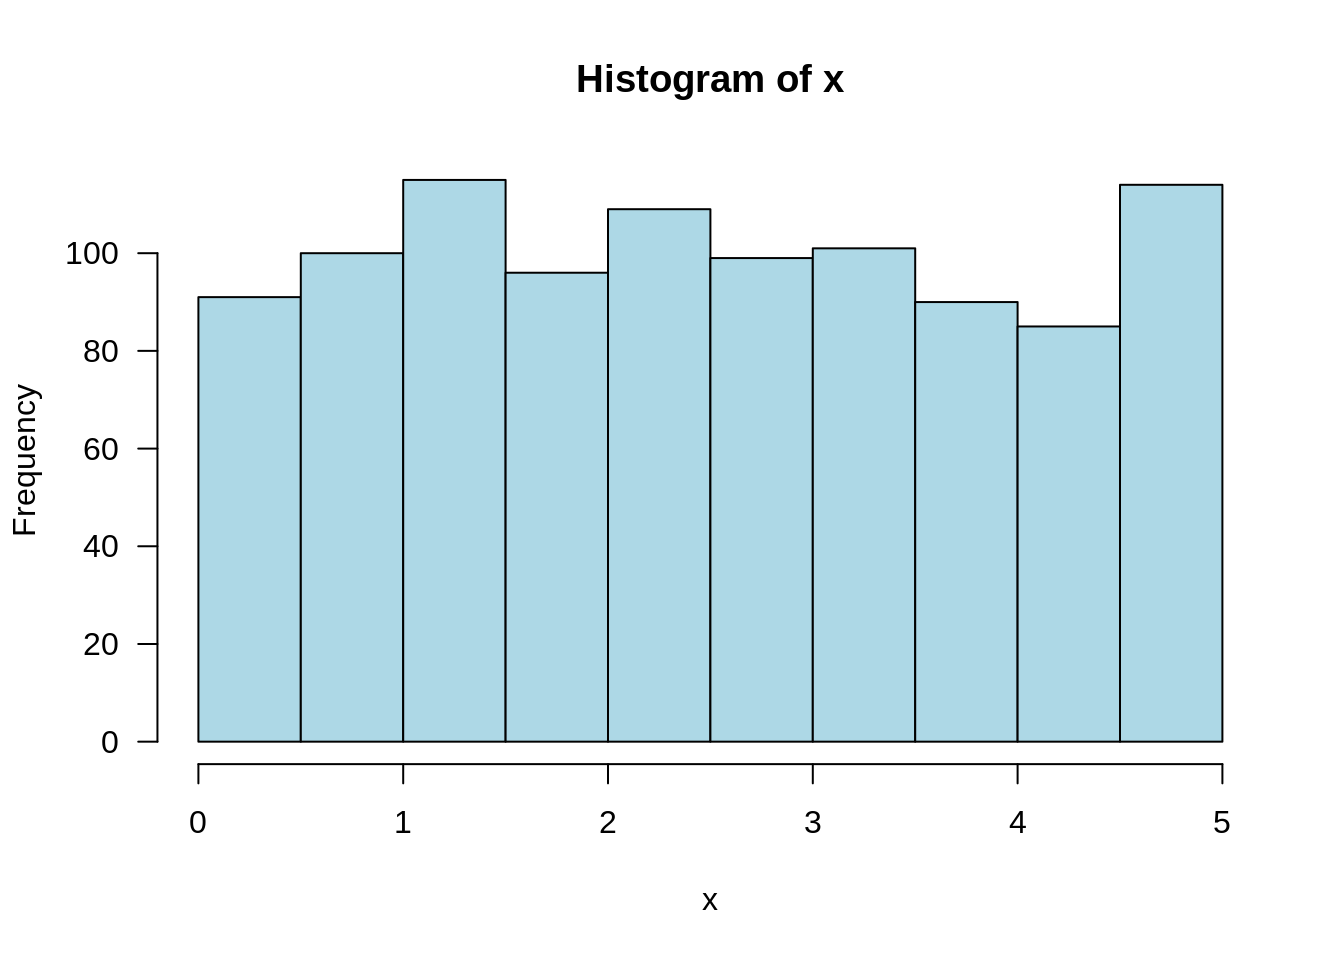
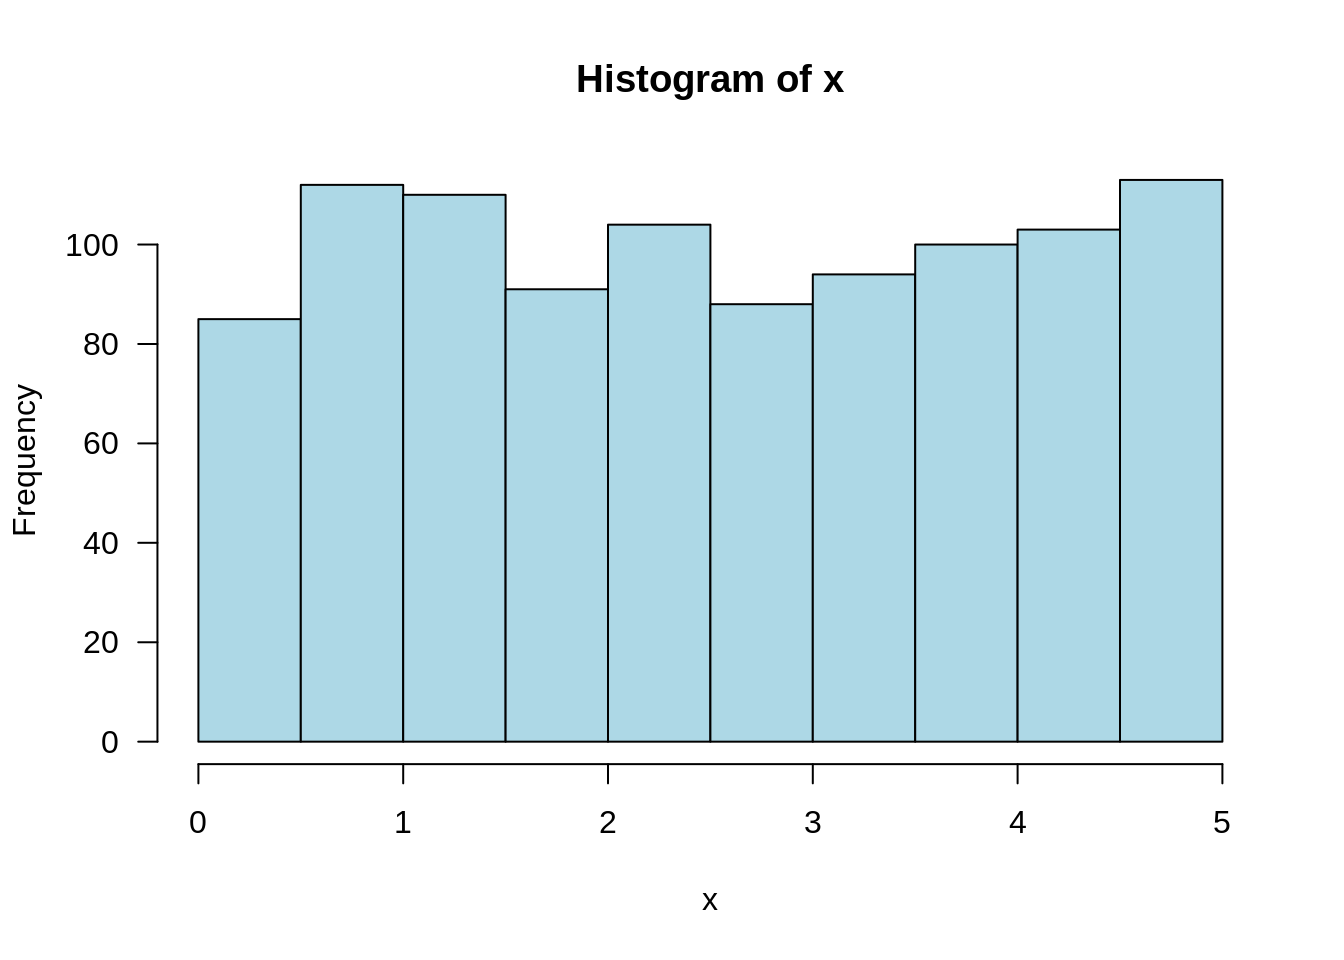
jtr13 published a site update

diff --git a/ch.-4-continuous-random-variables-and-probability-distributions.html b/ch.-4-continuous-random-variables-and-probability-distributions.html
@@ -271,11 +271,11 @@ code span.wa { color: #60a0b0; font-weight: bold; font-style: italic; } /* Warni
 <p>Randomly choose one number from the distribution:</p>
 <p><span class="math inline">\(f(x) = .2\)</span> for <span class="math inline">\(0 \leq x \leq 5\)</span>, 0 otherwise.</p>
 <div class="sourceCode" id="cb151"><pre class="sourceCode r"><code class="sourceCode r"><span id="cb151-1"><a href="ch.-4-continuous-random-variables-and-probability-distributions.html#cb151-1"></a><span class="kw">runif</span>(<span class="dt">n =</span> <span class="dv">1</span>, <span class="dt">min =</span> <span class="dv">0</span>, <span class="dt">max =</span> <span class="dv">5</span>)</span></code></pre></div>
-<pre><code>## [1] 4.143416</code></pre>
+<pre><code>## [1] 2.10225</code></pre>
 <p>Take the average of 1000 picks:</p>
 <div class="sourceCode" id="cb153"><pre class="sourceCode r"><code class="sourceCode r"><span id="cb153-1"><a href="ch.-4-continuous-random-variables-and-probability-distributions.html#cb153-1"></a>x &lt;-<span class="st"> </span><span class="kw">runif</span>(<span class="dt">n =</span> <span class="dv">1000</span>, <span class="dt">min =</span> <span class="dv">0</span>, <span class="dt">max =</span> <span class="dv">5</span>)</span>
 <span id="cb153-2"><a href="ch.-4-continuous-random-variables-and-probability-distributions.html#cb153-2"></a><span class="kw">mean</span>(x)</span></code></pre></div>
-<pre><code>## [1] 2.500257</code></pre>
+<pre><code>## [1] 2.524821</code></pre>
 <p>Draw a histogram of the 1000 picks:</p>
 <div class="sourceCode" id="cb155"><pre class="sourceCode r"><code class="sourceCode r"><span id="cb155-1"><a href="ch.-4-continuous-random-variables-and-probability-distributions.html#cb155-1"></a><span class="kw">hist</span>(x, <span class="dt">las =</span> <span class="dv">1</span>, <span class="dt">col =</span> <span class="st">&quot;lightblue&quot;</span>)</span></code></pre></div>
 <p><img src="STAT1201-resource_files/figure-html/unnamed-chunk-41-1.png" width="672" /></p>
